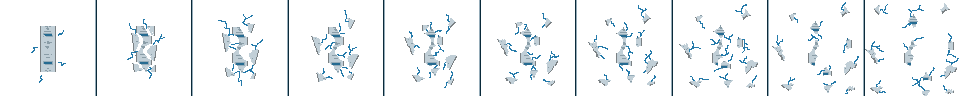
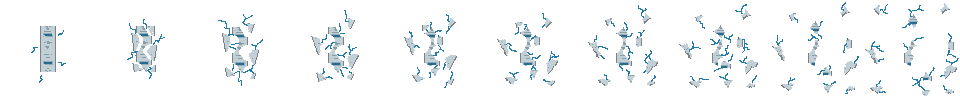
wheel explodes

diff --git a/src/scenes/Play.js b/src/scenes/Play.js
@@ -21,10 +21,13 @@ class Play extends Phaser.Scene {
             startFrame: 0, endFrame: 3});
         this.load.spritesheet('exclamation', './assets/Exclamation.png', {frameWidth: 20, frameHeight: 40, 
             startFrame: 0, endFrame: 10});
-        this.load.spritesheet('boosted', './assets/Krazy8S_Animation.png', {frameWidth: 64, frameHeight: 140, 
-            startFrame: 0, endFrame: 5});
+        this.load.spritesheet('boosted', './assets/Krazy8S_Animation.png', {frameWidth: 64, 
+            frameHeight: 140, startFrame: 0, endFrame: 5});
+        this.load.spritesheet('death', './assets/Wheel_Explosion_Redraw.png', {frameWidth: 96, 
+            frameHeight: 96, startframe: 0, endframe: 9}); 
         this.load.audio('sfx_boosted', './assets/Sounds/Doppler3.wav');
         this.load.audio('sfx_warning', './assets/Sounds/WarningSound.wav');
+        this.load.audio('sfx_lose', './assets/sounds/LosesoundbySnabisch.wav');
 
     }
 
@@ -62,7 +65,7 @@ class Play extends Phaser.Scene {
 
 
         //occasional boosted car
-        for(let i = 45000; i < 100000; i += 15000){
+        for(let i = 0; i < 100000; i += 15000){
             let xBetween = Math.floor(Math.random()*(432-47) + 47);
             this.clock = this.time.delayedCall(i, () => {
                 this.exclamationAnim(xBetween, 825);
@@ -94,6 +97,18 @@ class Play extends Phaser.Scene {
         this.anims.create(config03);
         this.boostAnim = this.add.sprite(this.boostedCar.x, this.boostedCar.y, 'boosted')
             .play('boostAnimate').setOrigin(0,0);
+
+        this.boostedArray = [this.boostedCar];
+
+        //animation for wheel explosion
+        let config04 = {
+            key: 'deathAnimation',
+            frames: this.anims.generateFrameNumbers('death', {start: 0, end: 9, first: 0}),
+            framerate: 2
+        };
+        this.anims.create(config04);
+
+
 
         //cars
         this.slingShot = new Car(this, game.config.width/2 - 30, -3628, 'slingshot', 0, 
@@ -210,7 +225,7 @@ class Play extends Phaser.Scene {
             this.boostedCar.update();
             this.boostAnim.y = this.boostedCar.y;
             this.boostAnim.x = this.boostedCar.x
-            if(this.checkCollision(this.p1Wheel, this.boostedCar)){
+            if(this.checkCollision(this.p1Wheel, this.boostedArray)){
                 this.EndOfLine();
             }
         }
@@ -242,6 +257,8 @@ class Play extends Phaser.Scene {
     }
 
     EndOfLine(){
+        //game over function:
+        //sets the game to over, adds text, explodes wheel, stops other objects from moving
         this.gameOver = true;
         //let score = timer.getElapsedSeconds();
         this.add.text(game.config.width/2, game.config.height/2 - 64, 'GAME OVER').setOrigin(0.5);
@@ -251,9 +268,12 @@ class Play extends Phaser.Scene {
              + ' obstacles!').setOrigin(.5);
         this.animatedWheel.destroy();
         this.boostAnim.destroy();
+        this.wheelExplode(this.p1Wheel);
     }
 
     checkOverlap(array) {
+        //unused function that used to check the overlap of a group of obstacles becuase previously both
+        //the x and y postions had some randomness, which caused overlapping
         for(let i = 0; i < array.length; i ++){
             for(let j = 0; j < array.length; j ++){
                 if(i != j){
@@ -270,6 +290,7 @@ class Play extends Phaser.Scene {
     }
 
     addSpeedToObs(array){
+        //small function that makes the cars go faster (or any array of objects with a speed field)
         for(let i = 0; i < array.length; i++){
             let obs = array[i];
             obs.speed += 2;
@@ -288,6 +309,9 @@ class Play extends Phaser.Scene {
     }
 
     obstaclesBeGone(array){
+        //lets the smaller obstacles go off screen before being destroyed
+        //sets the speed to 0 because otherwise there was a bug where the player could die to invisable 
+        //obstacles.
         let count = 0;
         for(let i = 0; i < array.length; i++){
             if(array[i]){
@@ -304,5 +328,15 @@ class Play extends Phaser.Scene {
         if(count = 5){
             array = null;
         }
+    }
+
+    wheelExplode(wheel){
+        wheel.alpha = 0; //hide the wheel
+        let death = this.add.sprite(wheel.x - 40, wheel.y - 25, 'death').setOrigin(0, 0);
+        death.anims.play('deathAnimation');
+        death.on('animationcomplete', () => {
+            death.destroy();
+        });
+        this.sound.play('sfx_lose');
     }
 }
